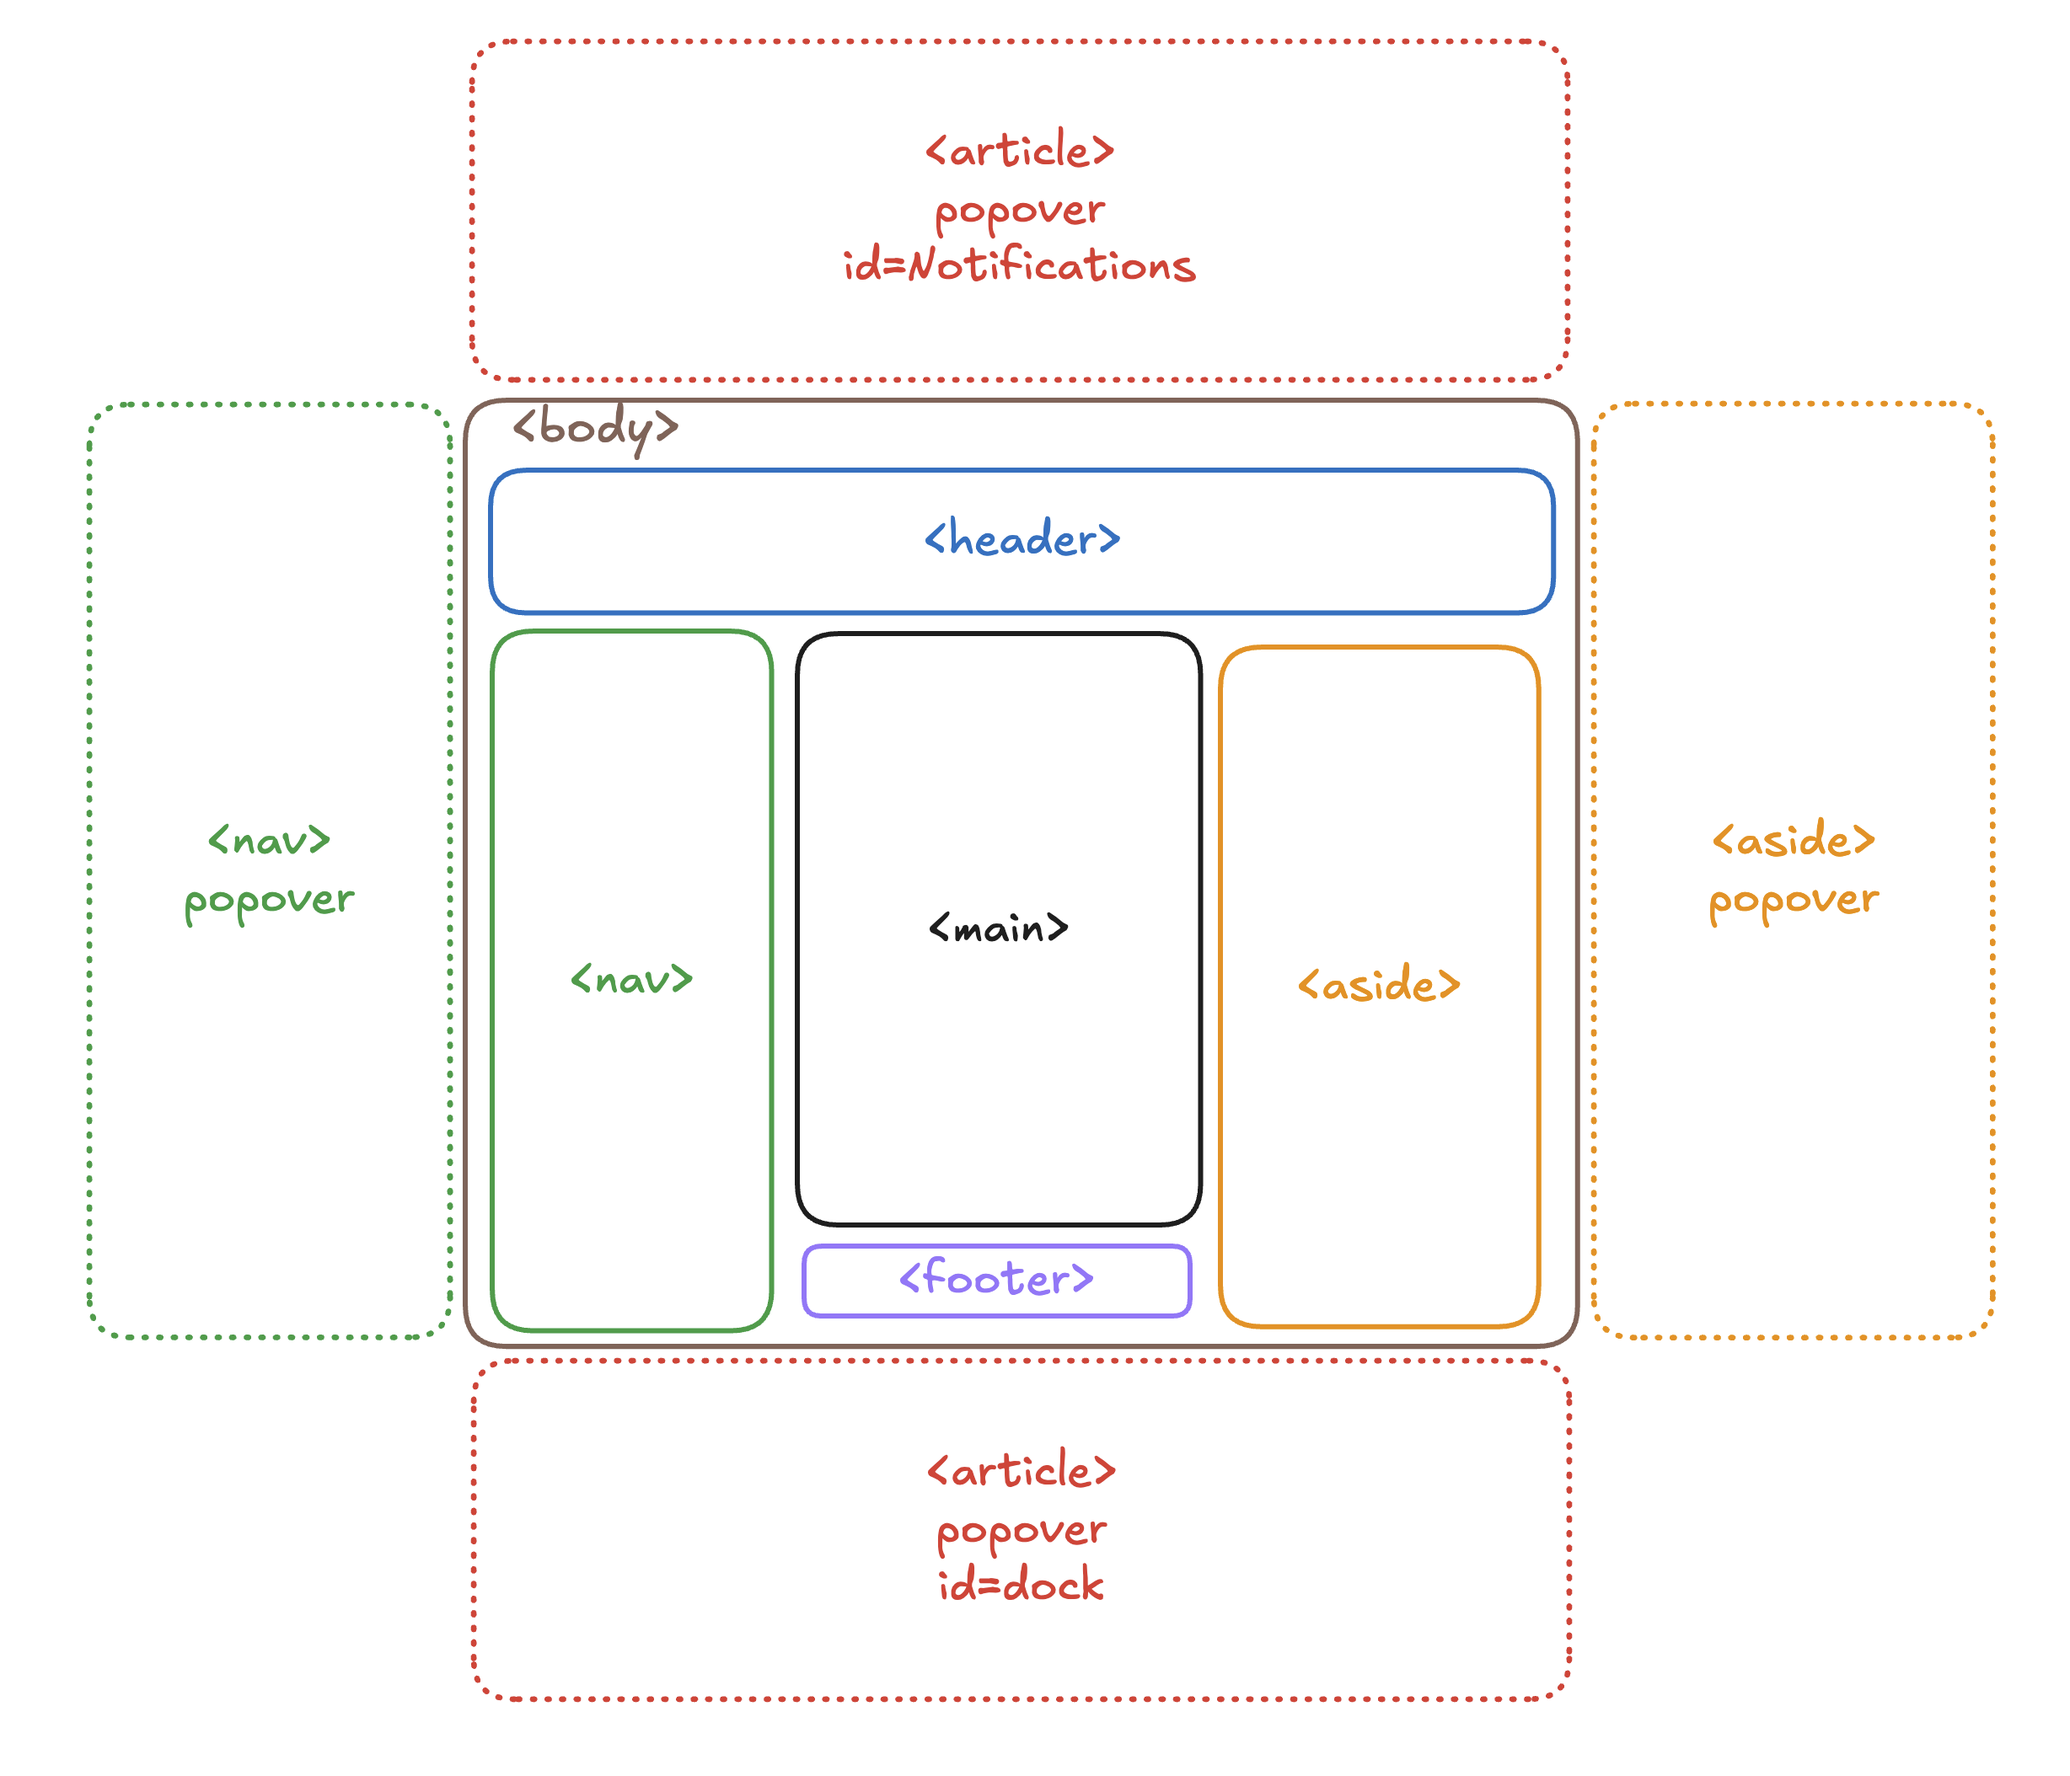
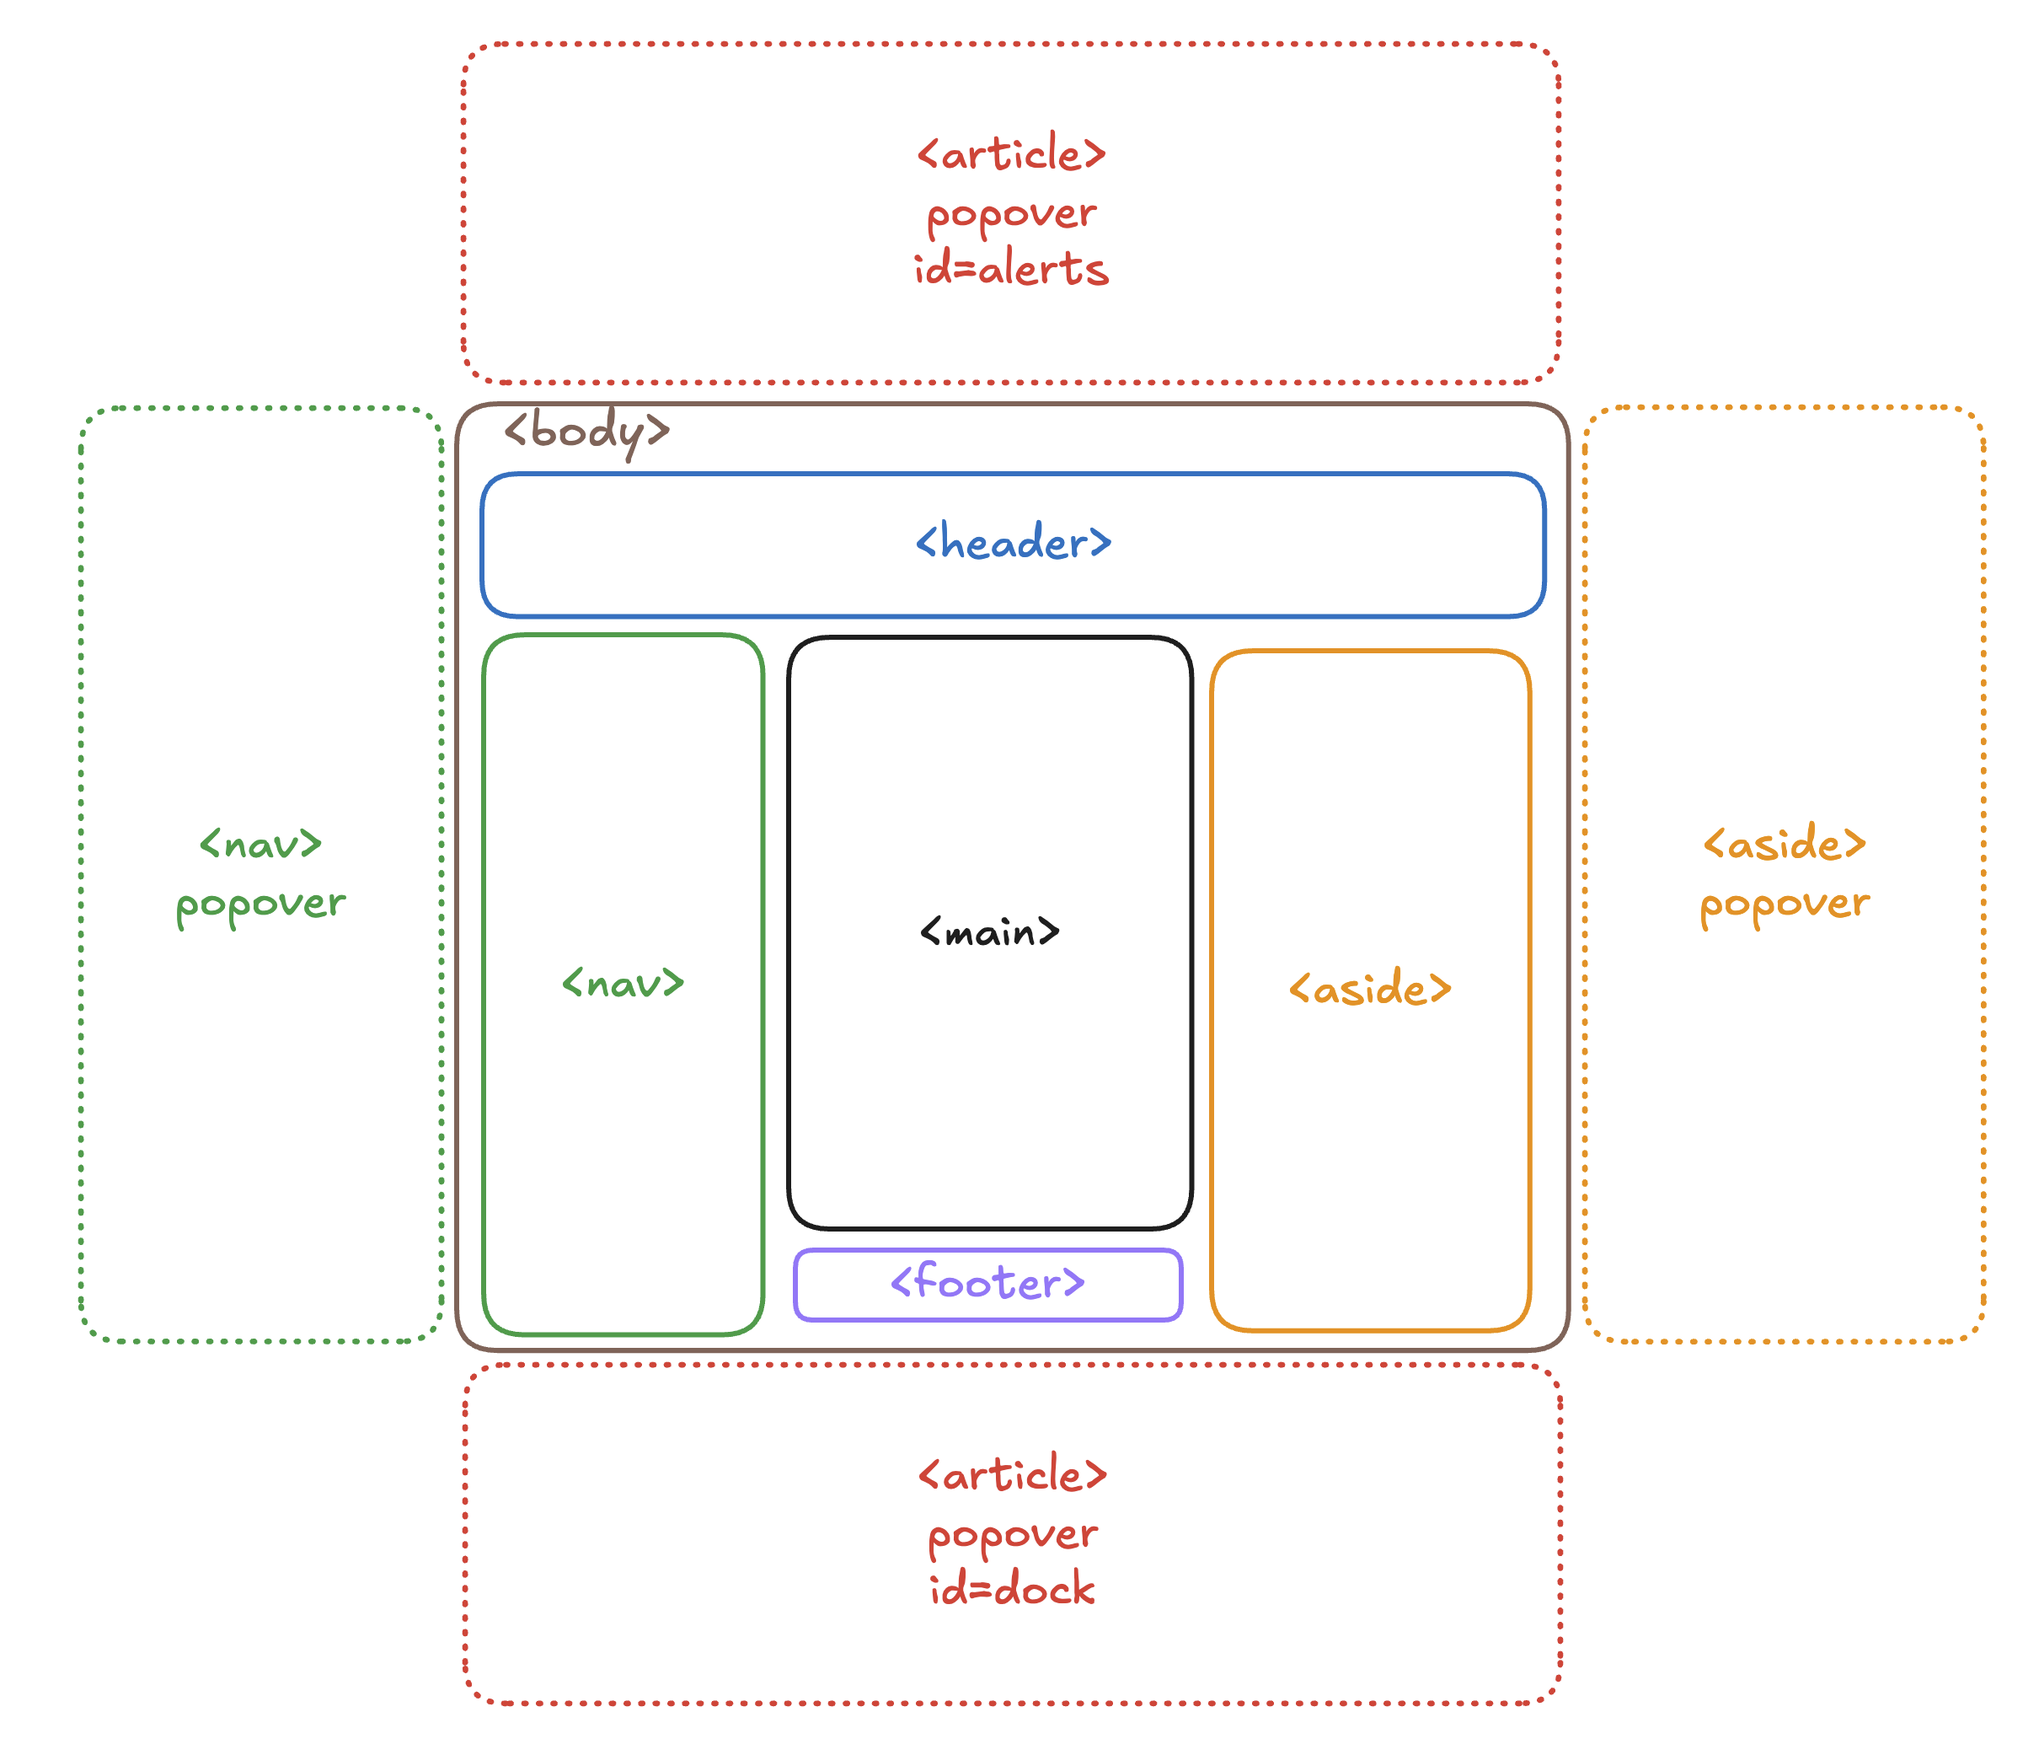
demo

diff --git a/index.html b/index.html
@@ -44,15 +44,9 @@
             });
         "
     >
-        <!--<header id="header" data-on-load="@get('partials/header.html')"></header>
-        <header id="notifications"></header>
-        <nav    id="nav"    data-on-load="@get('partials/nav.html')"  ></nav>
-        <main   id="main"   data-on-load="@get('partials/main.html')"> </main>
-        <aside  id="aside"  data-on-load="@get('partials/aside.html')"></aside>
-        <footer id="footer" data-on-load="@get('partials/footer.html')"></footer>-->
-        <header  id="header"><code>&lt header id="header" &gt</code></header>
-        <nav     id="nav"   ><code>&lt nav id="nav" &gt</code></nav>
-        <article id="notifications"><code>&lt article id="notifications" &gt</code></article>
+        <header  id="header"> <code>&lt <strong>header  </strong> id="header" &gt</code> </header>
+        <nav     id="nav"   > <code>&lt <strong>nav     </strong> id="nav"    &gt</code> </nav>
+        <article id="alerts"> <code>&lt <strong>article </strong> id="alerts" &gt</code> </article>
         <main    id="main" >
             <h1>Start Here</h1>
             <p>This demo is also designed to be a learning tool so you can interactivily see how the style system is build up</p>
@@ -60,9 +54,9 @@
             <p>Click the button below to load in the <code>Style Loader</code></p>
             <button data-on-click="@get('partials/main.html')">Style Loader</button>
         </main>
-        <aside  id="aside" ><code><h4>Aside</code></h4></aside>
-        <footer id="footer"><code><h4>Footer</code></h4></footer>
-        <article id="dock" ><code>&lt <strong>article</strong> id="dock" &gt</code></article>
+        <aside  id="aside" > <code>&lt <strong>aside   </strong> id="aside"  &gt</code> </aside>
+        <footer id="footer"> <code>&lt <strong>footer  </strong> id="footer" &gt</code> </footer>
+        <article id="dock" > <code>&lt <strong>article </strong> id="dock"   &gt</code> </article>
 
         <script>
           // Simple window resize handler that dispatches a custom event
